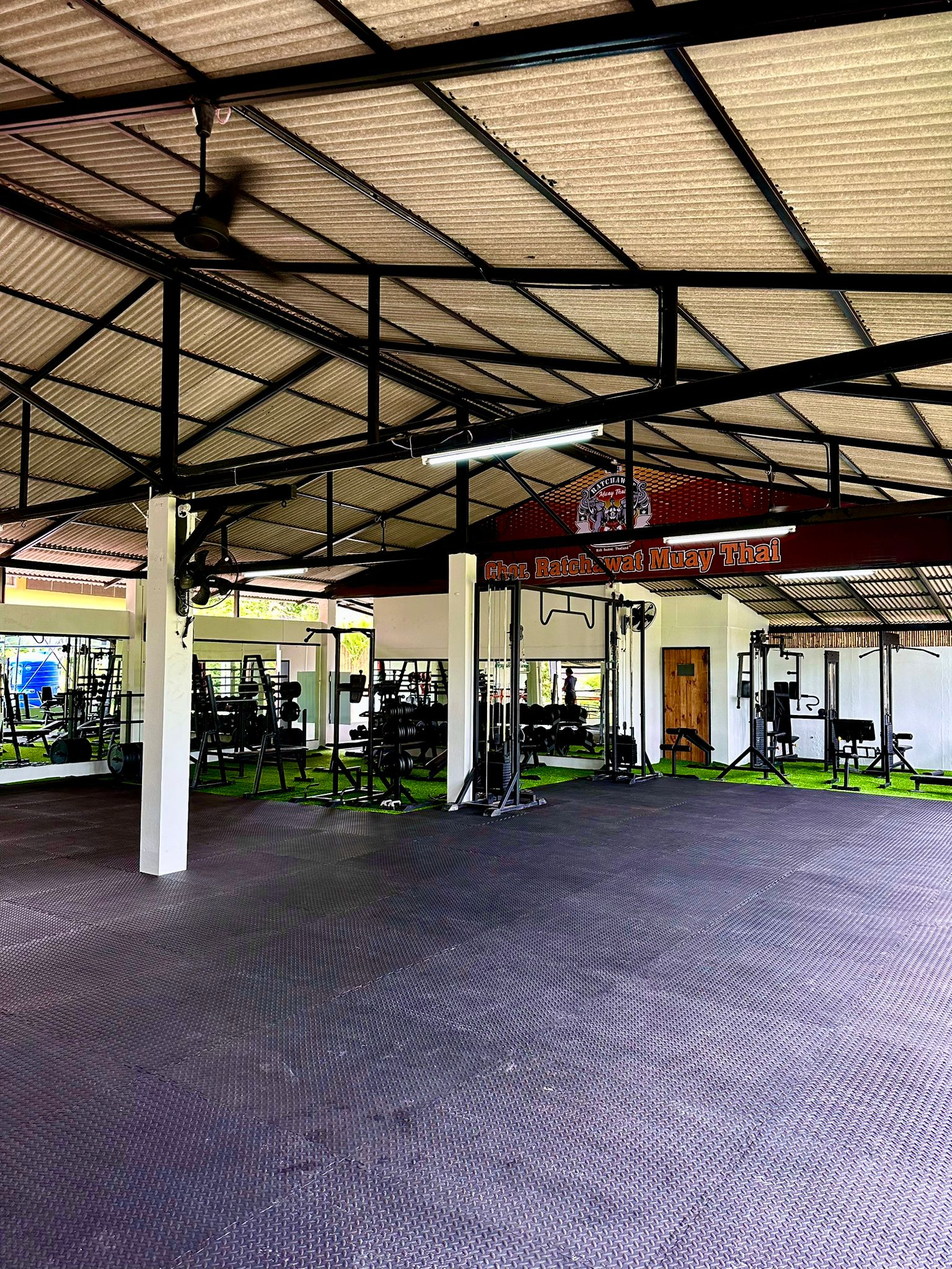
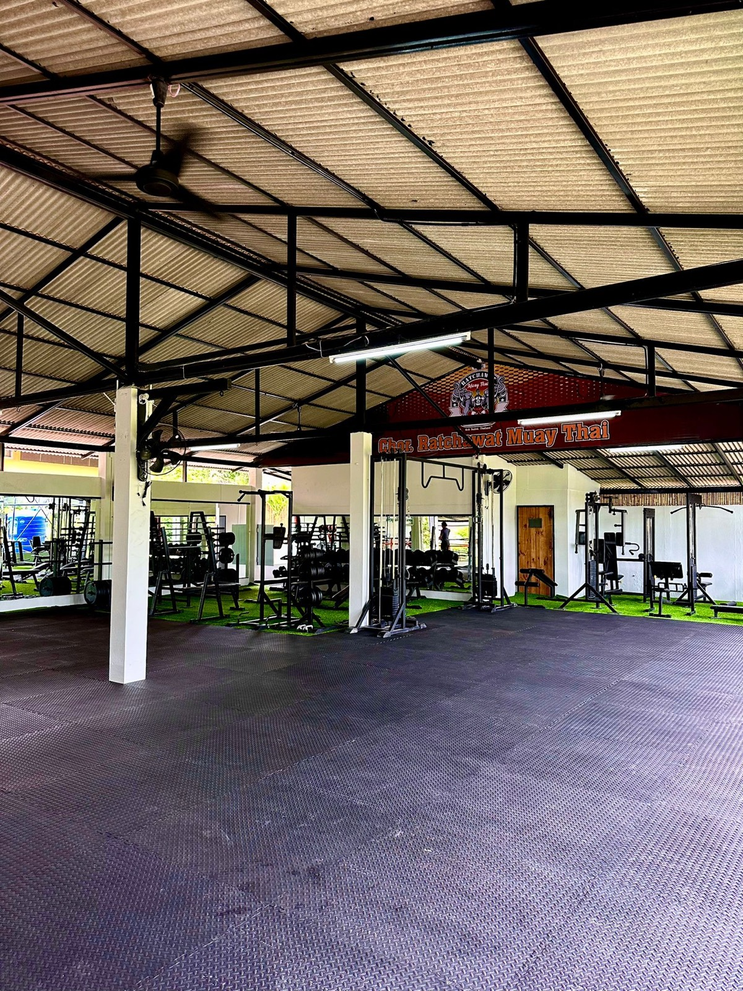
feat(phase6): real photos on /about + program pages + Bo Phut, compression pass
- /about: single 9:16 portrait of Kru Ratchawat
- /programs/{group-adults,group-kids,fighter}: single 9:16 program photo each
- /camps/bo-phut "The Gym": 2 real interior photos (camp-inside + camp-inside-2)
- Homepage + /camps/plai-laem: camp-view.png 3.5 MB → camp-view.jpg 547 KB (-85%)
- Compression pass: camp-inside, ring-view, trainer-kit, trainer-jet
- Audit: 0 ImagePlaceholder remaining in production, all <Image> have alt+sizes,
  HeroSection + /team featured trainer use priority for LCP
- ROADMAP Phase 6 updated; only legal pages content remains

Changed region(s): [[0.0, 0.5312, 0.0308, 0.5625]]

diff --git a/src/app/page.tsx b/src/app/page.tsx
@@ -2,7 +2,6 @@ import { generatePageMeta } from "@/lib/seo/meta";
 import HeroSection from "@/components/ui/HeroSection";
 import GlassCard from "@/components/ui/GlassCard";
 import CTABanner from "@/components/ui/CTABanner";
-import ImagePlaceholder from "@/components/ui/ImagePlaceholder";
 import TeamCircularGallery from "@/components/sections/TeamCircularGallery";
 import {
   featuredHomepageReviews,
@@ -103,7 +102,7 @@ const camps = [
     description:
       "Larger gym near Big Buddha, with a dedicated bodyweight and conditioning zone. More floor space, more equipment, same trainers.",
     href: "/camps/plai-laem",
-    image: "/images/camp-plai-laem/camp-view.png",
+    image: "/images/camp-plai-laem/camp-view.jpg",
     imageAlt: "Ratchawat Plai Laem camp, larger training facility near Big Buddha",
   },
 ];
@@ -189,23 +188,15 @@ export default function HomePage() {
             {camps.map((camp) => (
               <Link key={camp.name} href={camp.href} className="group">
                 <GlassCard>
-                  {camp.image ? (
-                    <div className="relative aspect-video rounded-card overflow-hidden mb-6">
-                      <Image
-                        src={camp.image}
-                        alt={camp.imageAlt}
-                        fill
-                        sizes="(max-width: 768px) 100vw, 50vw"
-                        className="object-cover transition-transform duration-500 group-hover:scale-105"
-                      />
-                    </div>
-                  ) : (
-                    <ImagePlaceholder
-                      category="gym"
-                      aspectRatio="aspect-video"
-                      className="mb-6"
+                  <div className="relative aspect-video rounded-card overflow-hidden mb-6">
+                    <Image
+                      src={camp.image}
+                      alt={camp.imageAlt}
+                      fill
+                      sizes="(max-width: 768px) 100vw, 50vw"
+                      className="object-cover transition-transform duration-500 group-hover:scale-105"
                     />
-                  )}
+                  </div>
                   <h3 className="font-serif text-xl font-bold text-on-surface uppercase mb-3 group-hover:text-primary transition-colors">
                     {camp.name}
                   </h3>

diff --git a/src/app/camps/bo-phut/page.tsx b/src/app/camps/bo-phut/page.tsx
@@ -4,7 +4,6 @@ import HeroSection from "@/components/ui/HeroSection";
 import GlassCard from "@/components/ui/GlassCard";
 import CTABanner from "@/components/ui/CTABanner";
 import Image from "next/image";
-import ImagePlaceholder from "@/components/ui/ImagePlaceholder";
 import ScheduleTable from "@/components/ui/ScheduleTable";
 import LocationCard from "@/components/ui/LocationCard";
 import JsonLd from "@/components/seo/JsonLd";
@@ -170,10 +169,25 @@ export default function BoPhutCampPage() {
                   className="object-cover"
                 />
               </div>
-              {/* TODO: replace placeholders with real Bo Phut gym photos */}
               <div className="grid grid-cols-2 gap-4">
-                <ImagePlaceholder category="gym" aspectRatio="aspect-square" />
-                <ImagePlaceholder category="training" aspectRatio="aspect-square" />
+                <div className="relative aspect-square rounded-card overflow-hidden">
+                  <Image
+                    src="/images/camp-bophut/camp-inside.jpeg"
+                    alt="Inside Bo Phut camp, ring and bag area"
+                    fill
+                    sizes="(max-width: 1024px) 50vw, 25vw"
+                    className="object-cover"
+                  />
+                </div>
+                <div className="relative aspect-square rounded-card overflow-hidden">
+                  <Image
+                    src="/images/camp-bophut/camp-inside-2.jpeg"
+                    alt="Bo Phut camp training floor, heavy bags"
+                    fill
+                    sizes="(max-width: 1024px) 50vw, 25vw"
+                    className="object-cover"
+                  />
+                </div>
               </div>
             </div>
           </div>

diff --git a/src/app/about/page.tsx b/src/app/about/page.tsx
@@ -2,7 +2,7 @@ import { generatePageMeta } from "@/lib/seo/meta";
 import Breadcrumbs from "@/components/layout/Breadcrumbs";
 import GlassCard from "@/components/ui/GlassCard";
 import CTABanner from "@/components/ui/CTABanner";
-import ImagePlaceholder from "@/components/ui/ImagePlaceholder";
+import Image from "next/image";
 import JsonLd from "@/components/seo/JsonLd";
 import { organizationSchema } from "@/components/seo/SchemaOrg";
 import { Heart, Shield, Users, Star, Trophy } from "lucide-react";
@@ -98,9 +98,14 @@ export default function AboutPage() {
               </p>
             </div>
           </div>
-          <div className="space-y-4">
-            <ImagePlaceholder category="team" aspectRatio="aspect-video" />
-            <ImagePlaceholder category="gym" aspectRatio="aspect-video" />
+          <div className="relative aspect-[9/16] rounded-card overflow-hidden">
+            <Image
+              src="/images/trainers/trainer-ratachawat-2.jpeg"
+              alt="Kru Ratchawat, founder of Chor Ratchawat Muay Thai Gym"
+              fill
+              sizes="(max-width: 1024px) 100vw, 40vw"
+              className="object-cover"
+            />
           </div>
         </div>
       </section>

diff --git a/src/app/programs/fighter/page.tsx b/src/app/programs/fighter/page.tsx
@@ -2,7 +2,7 @@ import { generatePageMeta } from "@/lib/seo/meta";
 import Breadcrumbs from "@/components/layout/Breadcrumbs";
 import GlassCard from "@/components/ui/GlassCard";
 import CTABanner from "@/components/ui/CTABanner";
-import ImagePlaceholder from "@/components/ui/ImagePlaceholder";
+import Image from "next/image";
 import JsonLd from "@/components/seo/JsonLd";
 import {
   organizationSchema,
@@ -171,9 +171,14 @@ export default function FighterProgramPage() {
               </p>
             </div>
           </div>
-          <div className="space-y-4">
-            <ImagePlaceholder category="training" aspectRatio="aspect-video" />
-            <ImagePlaceholder category="gym" aspectRatio="aspect-video" />
+          <div className="relative aspect-[9/16] rounded-card overflow-hidden">
+            <Image
+              src="/images/programs/program-fighter.jpg"
+              alt="Ratchawat fighter program training at Plai Laem camp"
+              fill
+              sizes="(max-width: 1024px) 100vw, 40vw"
+              className="object-cover"
+            />
           </div>
         </div>
       </section>

diff --git a/src/app/programs/group-adults/page.tsx b/src/app/programs/group-adults/page.tsx
@@ -2,7 +2,7 @@ import { generatePageMeta } from "@/lib/seo/meta";
 import Breadcrumbs from "@/components/layout/Breadcrumbs";
 import GlassCard from "@/components/ui/GlassCard";
 import CTABanner from "@/components/ui/CTABanner";
-import ImagePlaceholder from "@/components/ui/ImagePlaceholder";
+import Image from "next/image";
 import JsonLd from "@/components/seo/JsonLd";
 import {
   organizationSchema,
@@ -114,9 +114,14 @@ export default function GroupAdultsPage() {
               </p>
             </div>
           </div>
-          <div className="space-y-4">
-            <ImagePlaceholder category="training" aspectRatio="aspect-video" />
-            <ImagePlaceholder category="gym" aspectRatio="aspect-video" />
+          <div className="relative aspect-[9/16] rounded-card overflow-hidden">
+            <Image
+              src="/images/programs/group-adult.jpg"
+              alt="Adults group Muay Thai class at Ratchawat camp"
+              fill
+              sizes="(max-width: 1024px) 100vw, 40vw"
+              className="object-cover"
+            />
           </div>
         </div>
       </section>

diff --git a/src/app/programs/group-kids/page.tsx b/src/app/programs/group-kids/page.tsx
@@ -2,7 +2,7 @@ import { generatePageMeta } from "@/lib/seo/meta";
 import Breadcrumbs from "@/components/layout/Breadcrumbs";
 import GlassCard from "@/components/ui/GlassCard";
 import CTABanner from "@/components/ui/CTABanner";
-import ImagePlaceholder from "@/components/ui/ImagePlaceholder";
+import Image from "next/image";
 import JsonLd from "@/components/seo/JsonLd";
 import {
   organizationSchema,
@@ -108,9 +108,14 @@ export default function GroupKidsPage() {
               </p>
             </div>
           </div>
-          <div className="space-y-4">
-            <ImagePlaceholder category="training" aspectRatio="aspect-video" />
-            <ImagePlaceholder category="team" aspectRatio="aspect-video" />
+          <div className="relative aspect-[9/16] rounded-card overflow-hidden">
+            <Image
+              src="/images/programs/groupf-kids.jpg"
+              alt="Kids Muay Thai class at Ratchawat camp"
+              fill
+              sizes="(max-width: 1024px) 100vw, 40vw"
+              className="object-cover"
+            />
           </div>
         </div>
       </section>

diff --git a/src/app/camps/plai-laem/page.tsx b/src/app/camps/plai-laem/page.tsx
@@ -186,7 +186,7 @@ export default function PlaiLaemCampPage() {
             <div className="space-y-4">
               <div className="relative aspect-video rounded-card overflow-hidden">
                 <Image
-                  src="/images/camp-plai-laem/camp-view.png"
+                  src="/images/camp-plai-laem/camp-view.jpg"
                   alt="Ratchawat Plai Laem gym, full training facility near Big Buddha"
                   fill
                   sizes="(max-width: 1024px) 100vw, 50vw"

diff --git a/ROADMAP.md b/ROADMAP.md
@@ -274,14 +274,17 @@ First Name, Last Name, Country of Origin/Nationality, Phone (WhatsApp), Email, P
 
 - [x] **Done 2026-04-13/14** — see history below
 - [x] **Homepage Meet the Team (`TeamCircularGallery`)** — done 2026-04-26. All 10 trainers shown in circular gallery with real photos from `/public/images/trainers/`.
-- [ ] **Plai Laem dedicated "Our Two Camps" homepage photo** (currently reuses `camp-view.png` — needs a distinct hero-style shot)
-- [ ] **Bo Phut — "The Gym" section**: 2 square placeholders remaining in `/camps/bo-phut`
-- [ ] **`/team` page**: full trainer portraits + any group shots
-- [ ] **`/about` page**: founder/story photos if page added in Phase 5
-- [ ] Audit remaining `ImagePlaceholder` usage across all pages, replace or remove
-- [ ] Verify every `<Image>` has correct `sizes`, `alt`, `width`/`height` or `fill`
-- [ ] Compress sources, prefer WebP/AVIF
-- [ ] Above-the-fold images use `priority`
+- [x] **Plai Laem "Our Two Camps" homepage photo** — done 2026-04-26. `camp-view.png` (3.5 MB) compressed to `camp-view.jpg` (547 KB, -85%) and reused on homepage + `/camps/plai-laem`. Client confirmed photo is correct.
+- [x] **Bo Phut — "The Gym" section** — done 2026-04-26. 2 square placeholders replaced with `camp-inside.jpeg` + `camp-inside-2.jpeg`.
+- [x] **`/about` page** — done 2026-04-26. Single 9:16 portrait of Kru Ratchawat (`trainer-ratachawat-2.jpeg`).
+- [x] **`/programs/group-adults`** — done 2026-04-26. Single 9:16 image (`group-adult.jpg`).
+- [x] **`/programs/group-kids`** — done 2026-04-26. Single 9:16 image (`groupf-kids.jpg`).
+- [x] **`/programs/fighter`** — done 2026-04-26. Single 9:16 image (`program-fighter.jpg`).
+- [x] **Audit `ImagePlaceholder` usage** — done 2026-04-26. Zero usage remains in production pages.
+- [x] **`<Image>` config audit** — done 2026-04-26. All 18 `<Image>` tags verified with `alt`, `sizes`, `fill` or explicit dimensions.
+- [x] **Compress sources** — done 2026-04-26. `camp-view.png` 3.5 MB → 547 KB. `camp-inside.jpg` 930 KB → 820 KB. `ring-view.jpg` 831 KB → 719 KB. `trainer-kit` 652 → 562 KB. `trainer-jet` 627 → 540 KB.
+- [x] **`/team` page** — done 2026-04-26. All 10 trainer portraits use real photos from `/public/images/trainers/`.
+- [x] **Above-the-fold `priority` audit** — done 2026-04-26. `HeroSection` (homepage) and `/team` featured trainer use `priority`. All other first `<Image>` tags sit below intro text blocks (textual hero), so lazy loading is correct.
 - [ ] **Legal pages content** — replace placeholder copy on `/privacy` and `/terms` with the full, owner-validated legal text (data processors, cancellation/refund policy, training-risk waiver, DTV refund-voucher clause, booking/payment terms, governing law). Required for Stripe live mode and EU/UK visitors. Once real content lands, flip `noIndex` to `false` on both pages and bump sitemap priority if appropriate.
 
 ### Done (history)
